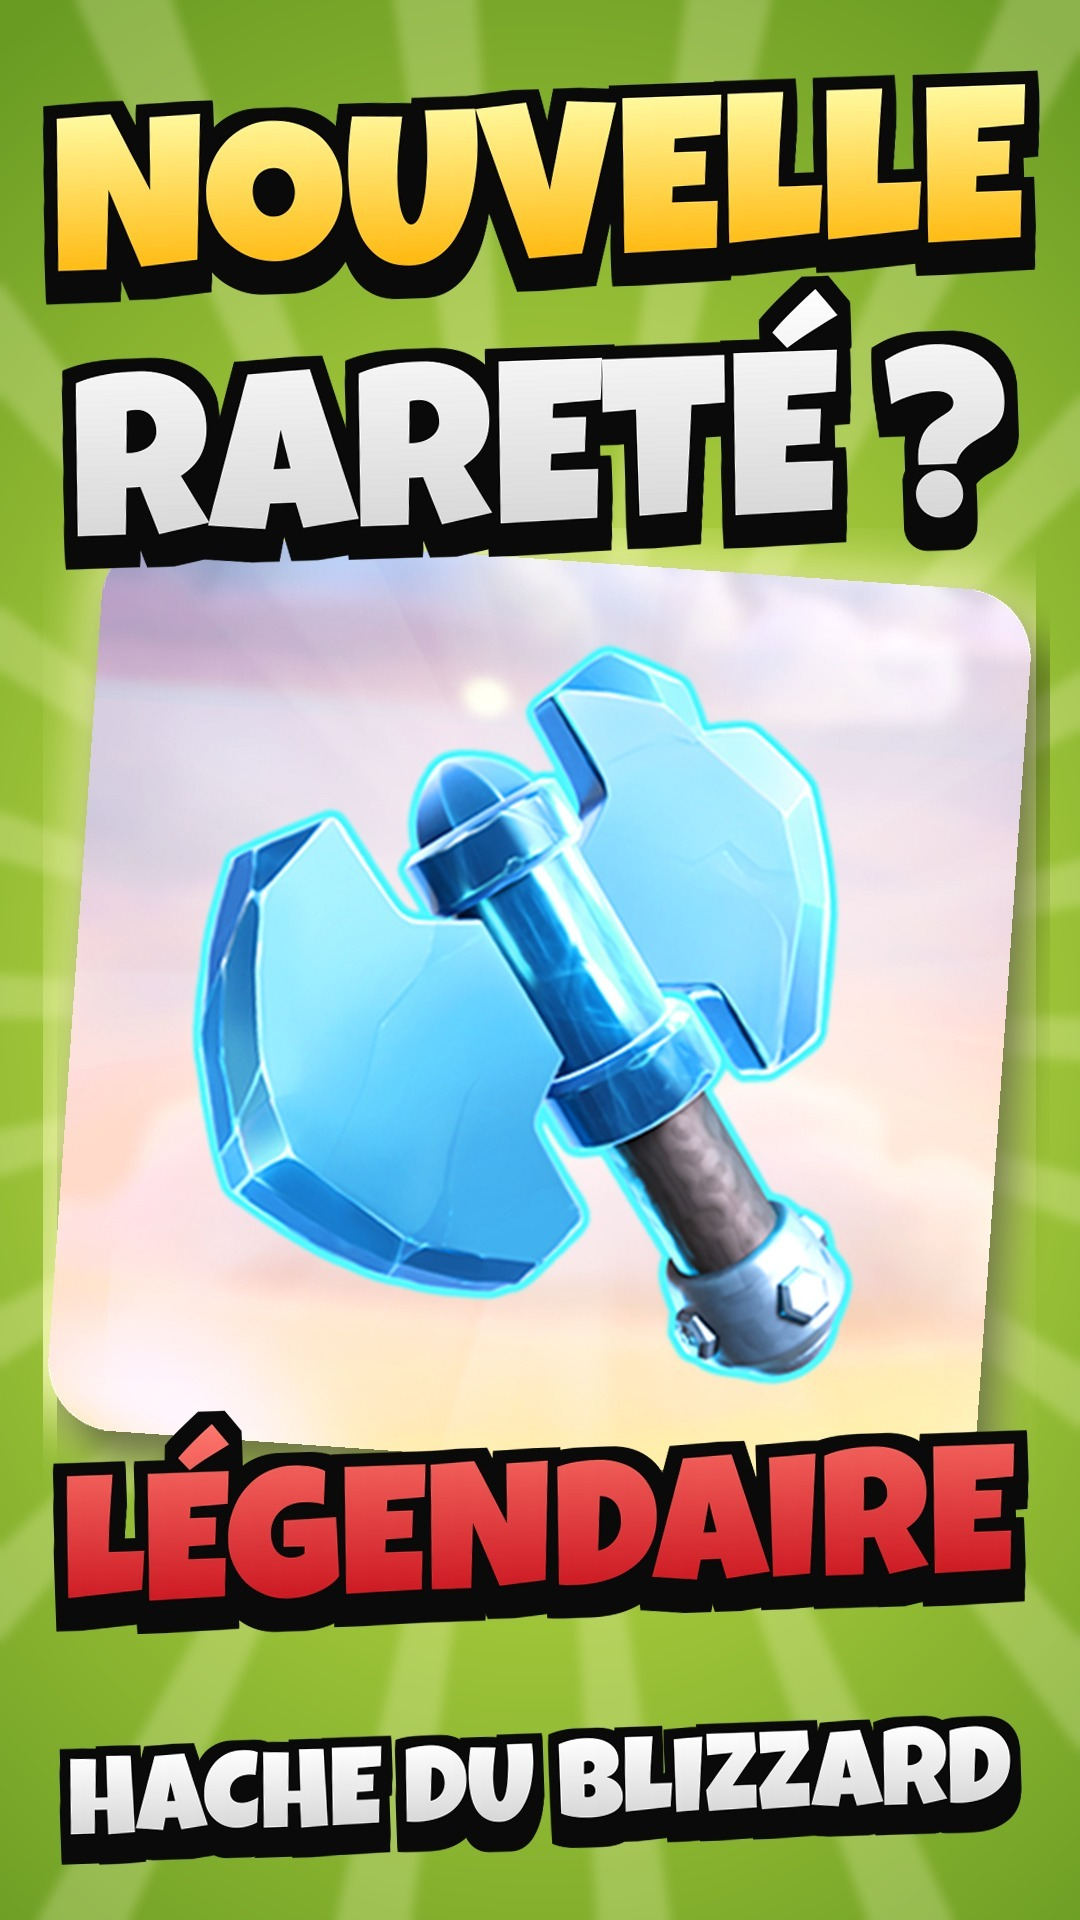
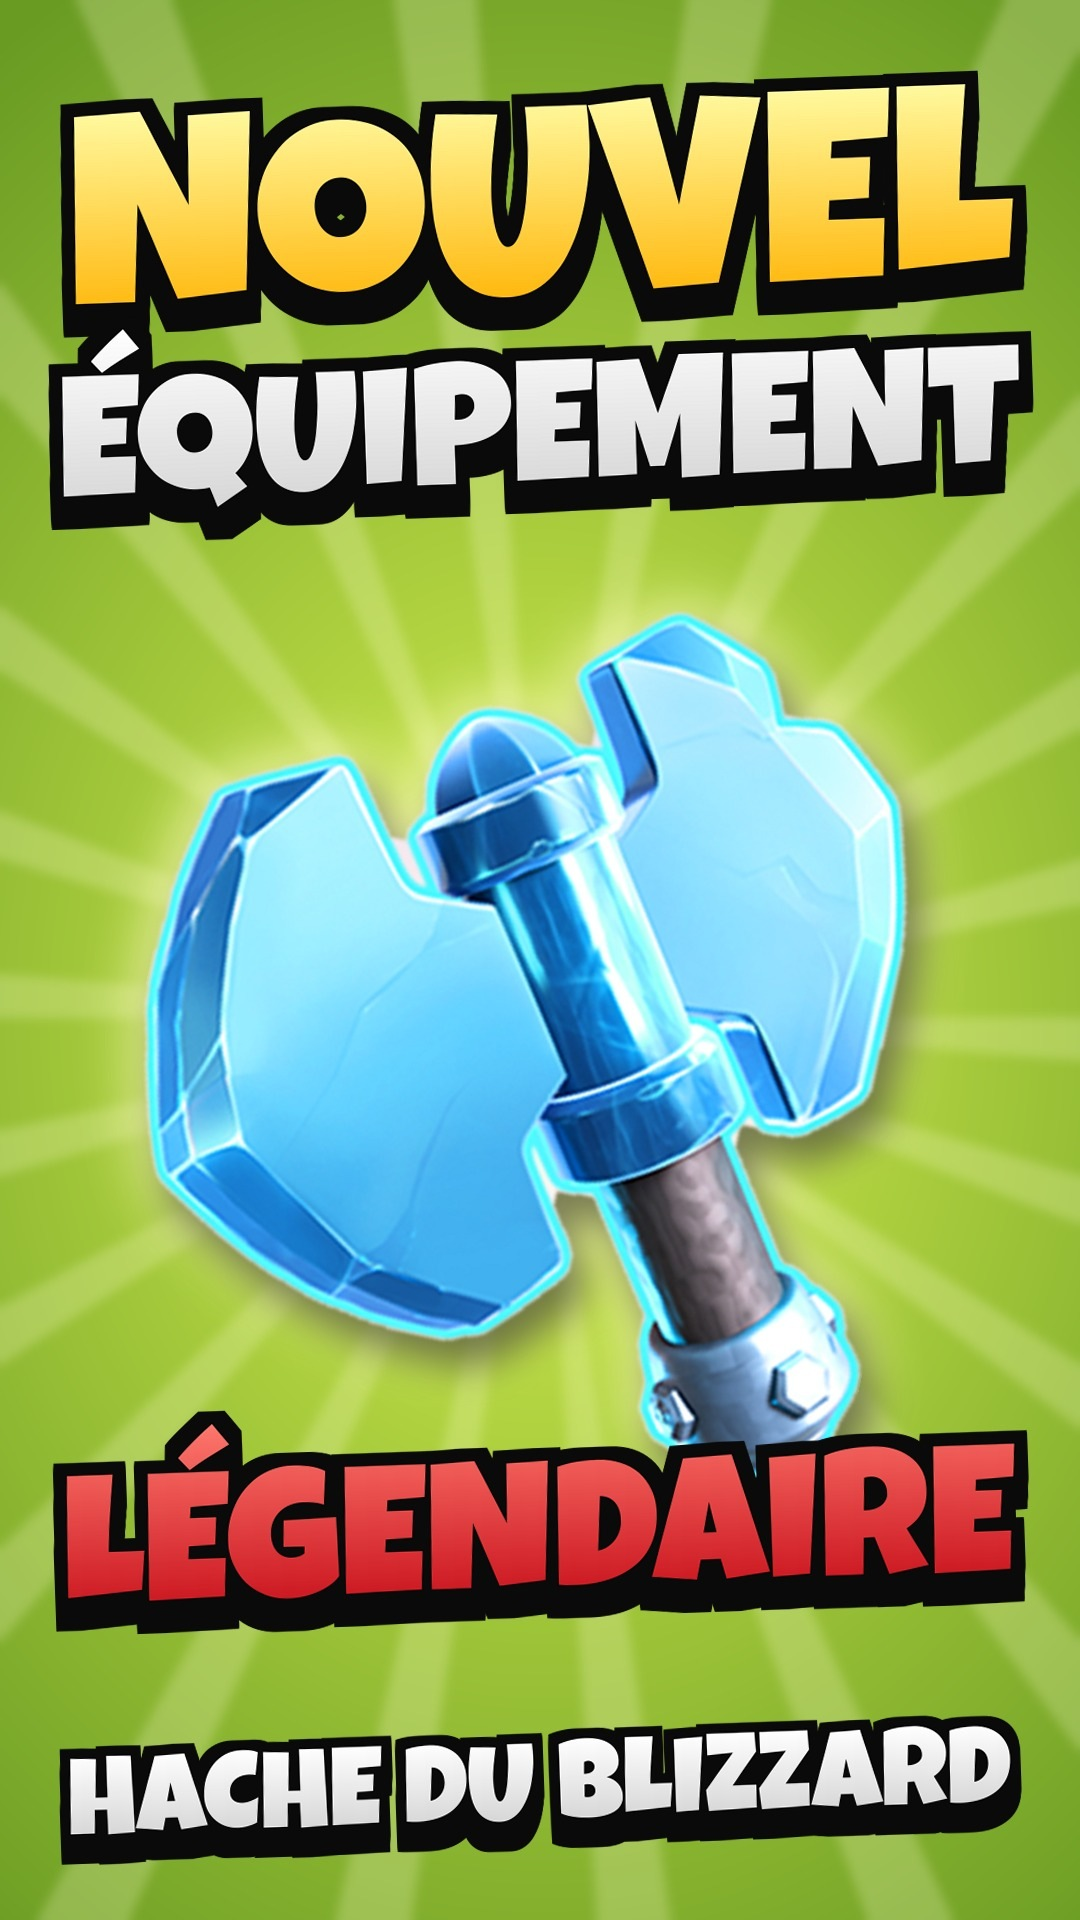
Miniature 18/11 au format miniatures.py (fond vert, mot-clé jaune, hache détourée)
Claude-Session: https://claude.ai/code/session_01WayH7wVFLQte2CoGaB8V5Z

diff --git a/outils/miniatures.py b/outils/miniatures.py
@@ -95,7 +95,7 @@ SPECS = {
     '18': ('DÉTRUIS', 'EN 1ER', [('Inferno Tower10 Multi.png', 520, 820, 330, 1010, 0), ('Scattershot7.png', 520, 560, 770, 1080, 0)], ('CES DÉFENSES', R), 'TOUT DE SUITE'),
     '19': ('3 PHASES', '3 ÉTOILES', [('Barbarian King info 2.png', 900, 860, 540, 1010, 0)], ('NE RATE', R), 'PAS ÇA'),
     '21': ('STAR', 'BONUS ?', [('4x Battle Bake.png', 520, 640, 330, 1030, -8), ('Loot Cart Lolly.png', 520, 600, 770, 1050, 8)], ('BUTIN X4', R), 'NOUVEAUTÉ OFFICIELLE'),
-    'hache': ('NOUVELLE', 'RARETÉ ?', [('axe', 960, 900, 540, 1010, -4)], ('LÉGENDAIRE', R), 'HACHE DU BLIZZARD'),  # image fournie localement (blog Supercell)
+    'hache': ('NOUVEL', 'ÉQUIPEMENT', [('axe_cut.png', 900, 840, 540, 1010, -12)], ('LÉGENDAIRE', R), 'HACHE DU BLIZZARD'),  # détourage fourni : propositions/2026-11-18/axe_cut.png (à copier dans CC_WD)
     '20': ('BASE', 'RASÉE ?', [('Eagle Artillery Level1 info.png', 770, 700, 540, 1000, 0)], ('3 ERREURS', R), 'À ÉVITER'),
 }
 
